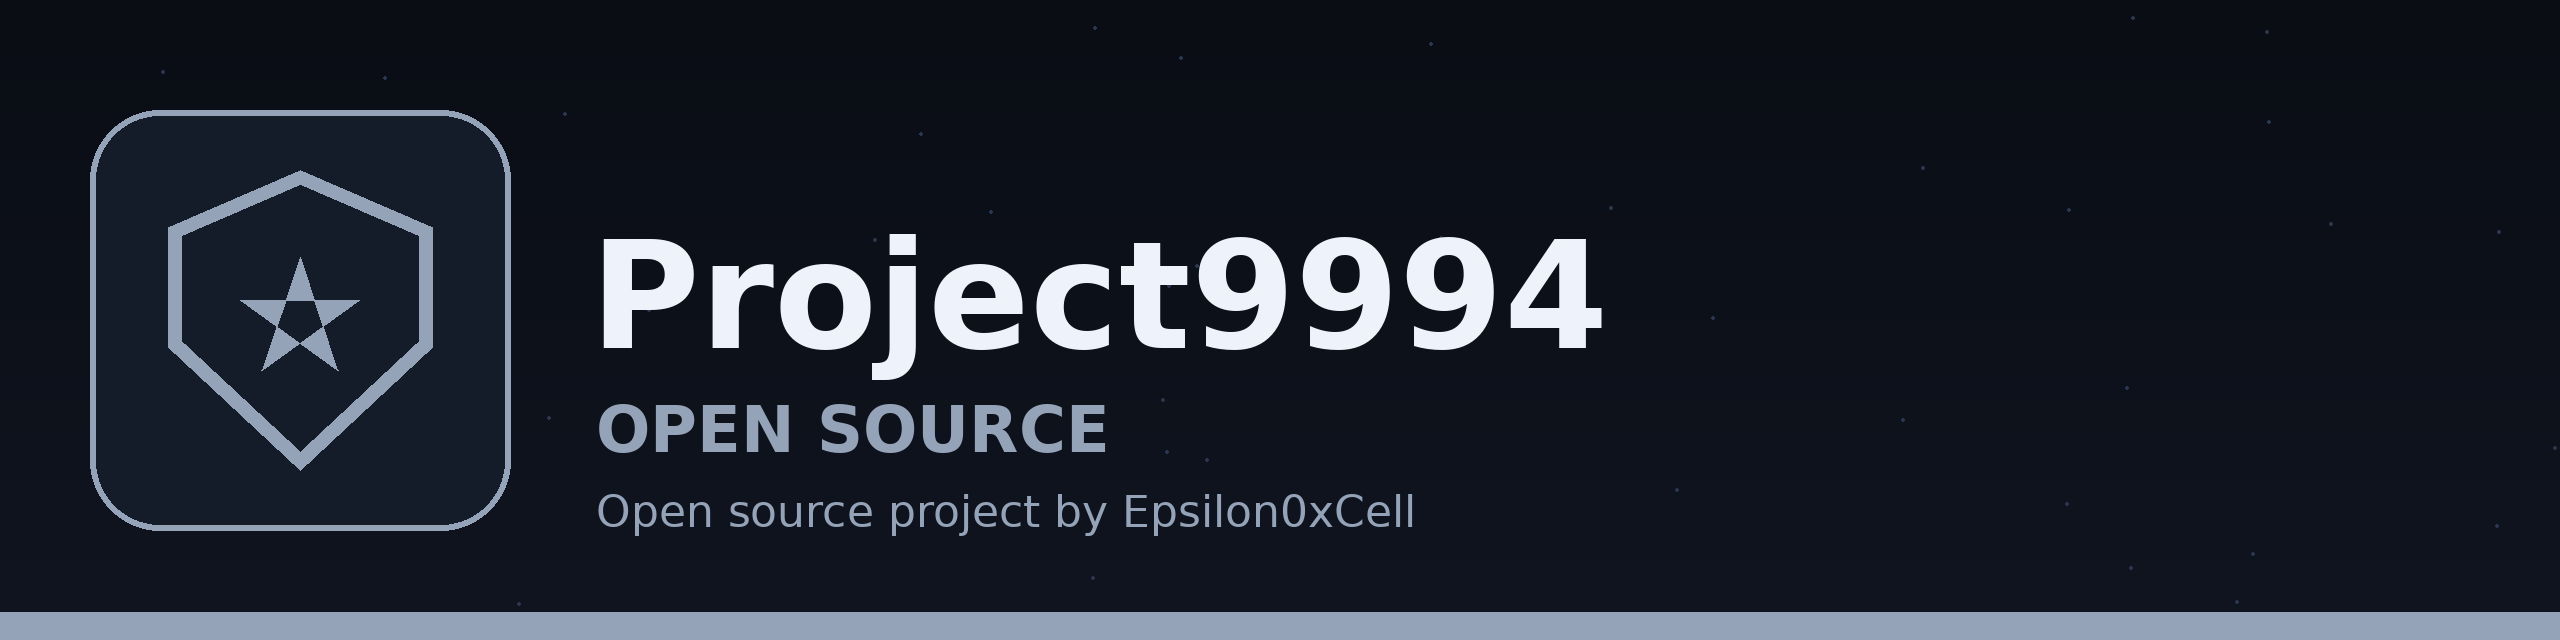
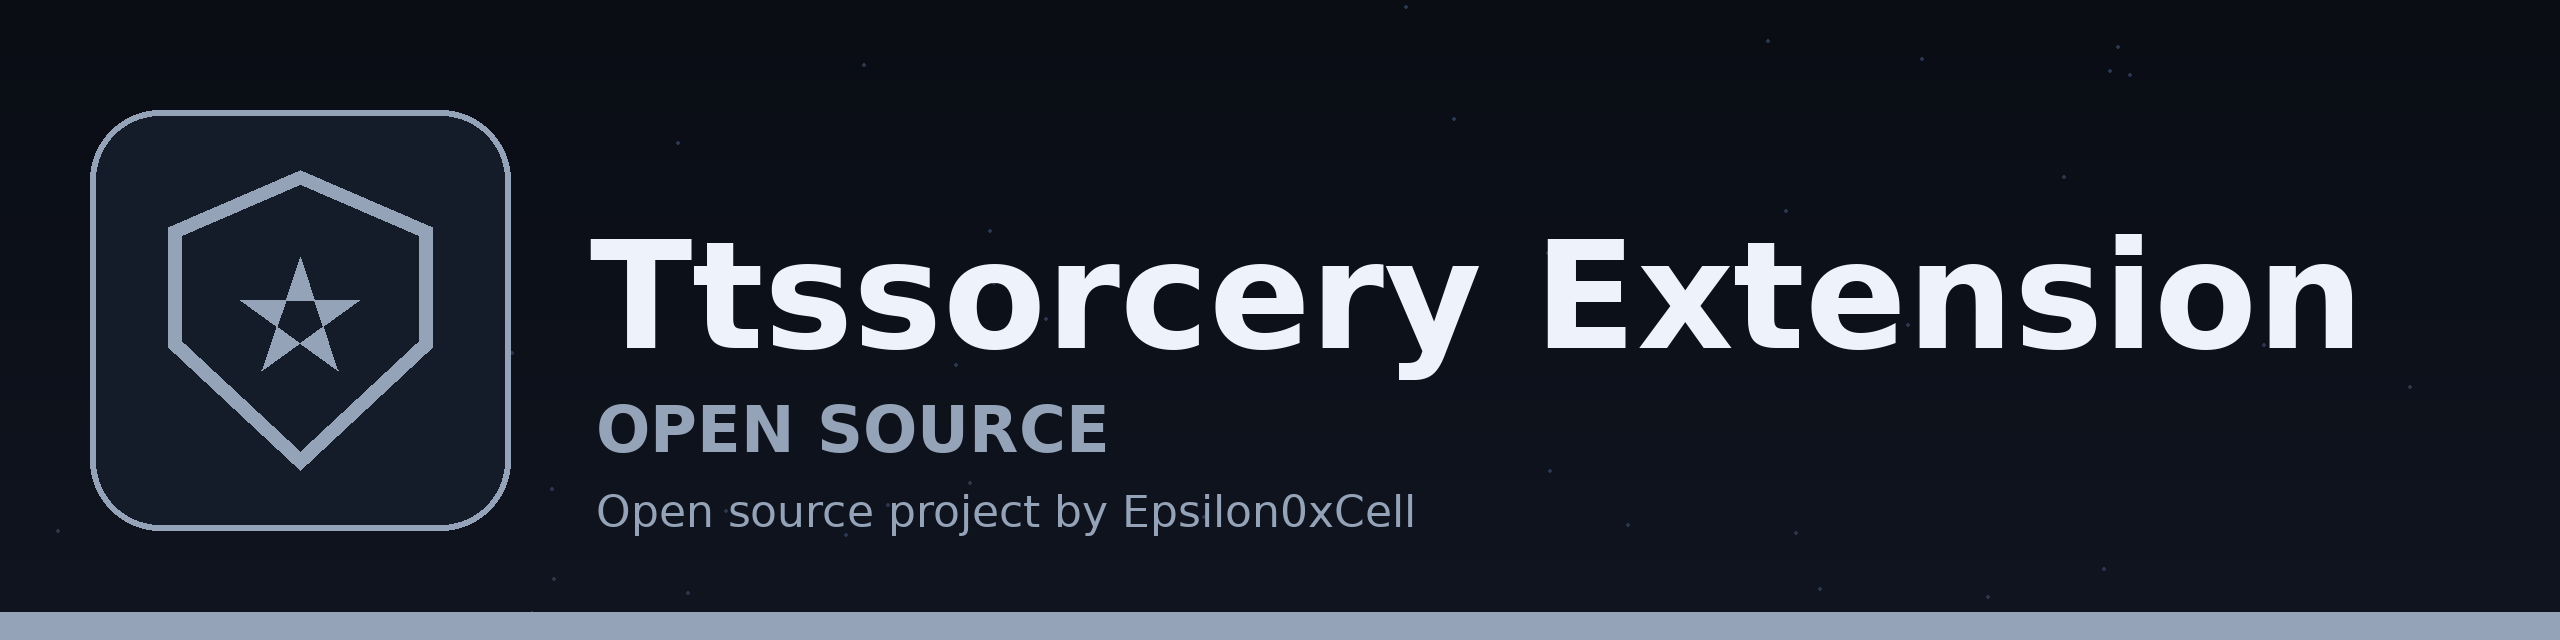
Update name to TTSSorcery-Extension: README title and branding

Changed region(s): [[0.2188, 0.3438, 0.9375, 0.5938]]

diff --git a/README.md b/README.md
@@ -66,7 +66,7 @@ This is included in every dialogue zonos tts generates
 This extension has lots of bugs and almost 80% depends on you having a smart model. The regex it uses to detect characters can break if the model isnt smart enough to put it in the right placing. This has only been tested with models like Claude 3.7, Claude 3.5, Claude Opus, Gemini Pro, Claude Haiku so keep that in mind. It also only works with chat completion for now.
 ## Repository notes (verified 2026-10-30)
 
-- This repo is the project9994 variant of TTSSorcery for SillyTavern. Files: index.js, style.css, manifest.json.
+- This repo is the TTSSorcery-Extension variant of TTSSorcery for SillyTavern. Files: index.js, style.css, manifest.json.
 - manifest.json declares js index.js and css style.css, and both files are present.
 - index.js passes node --check. It requires SillyTavern host modules (extensions.js, script.js, power-user.js, openai.js, lib.js), so it cannot run standalone outside SillyTavern.
 - The Zyphra API is called over HTTPS at https://api.zyphra.com/v1/audio/text-to-speech. Earlier revisions used plain HTTP, which would have sent the API key unencrypted.
